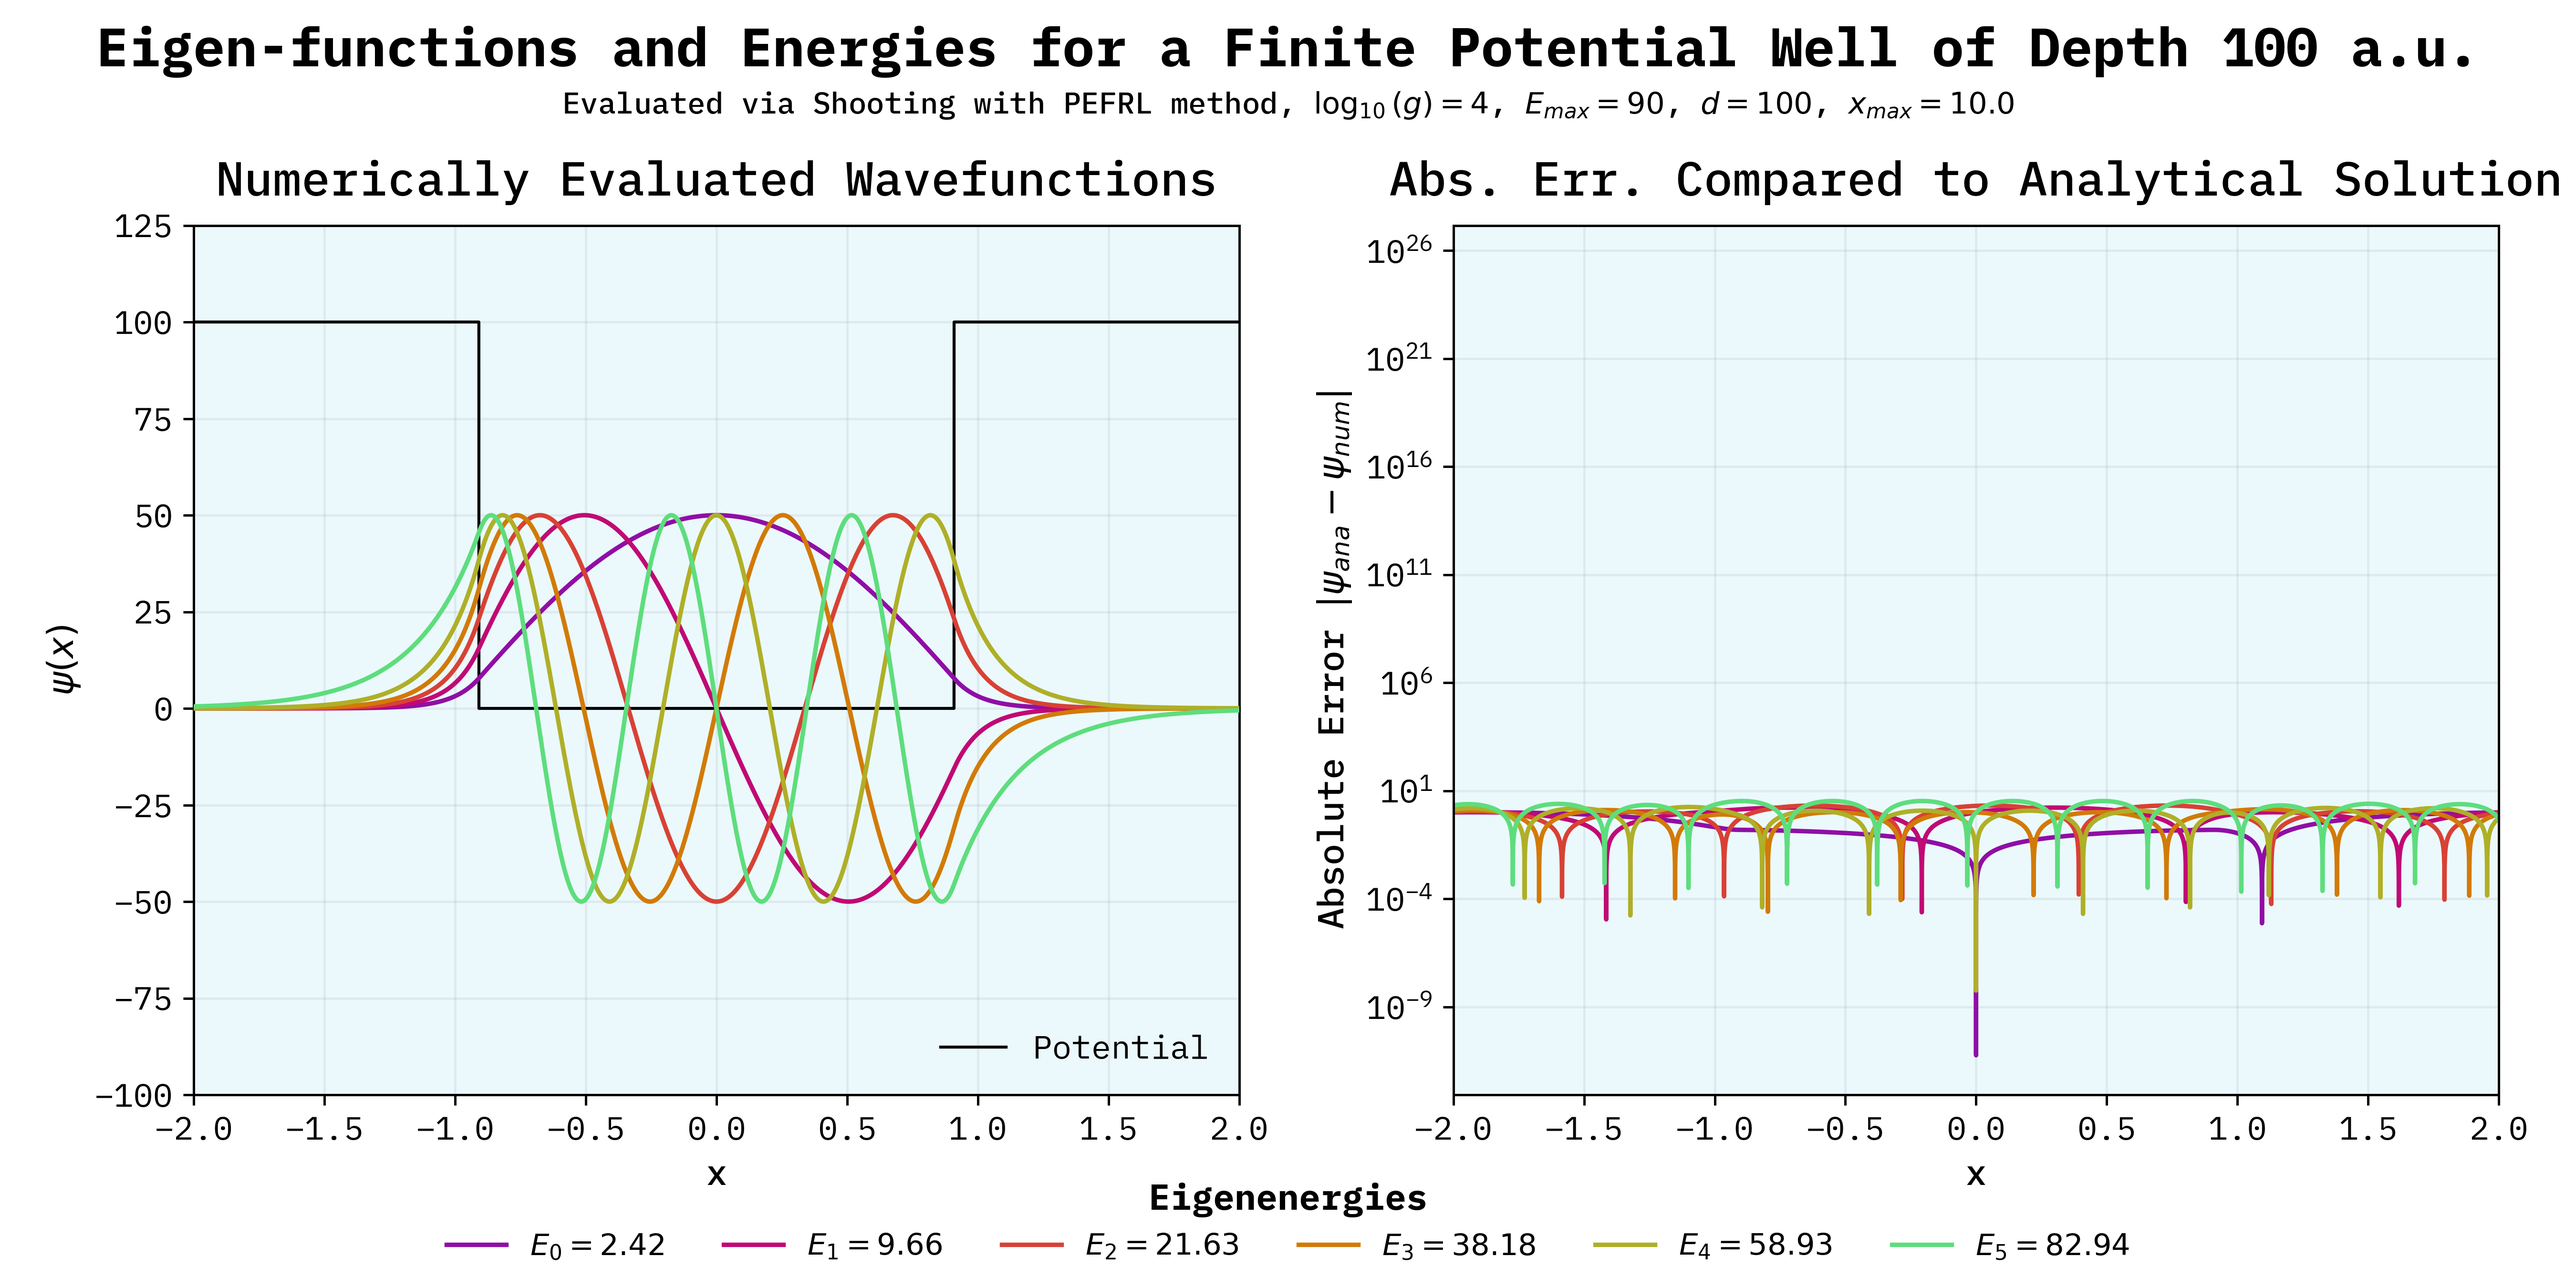
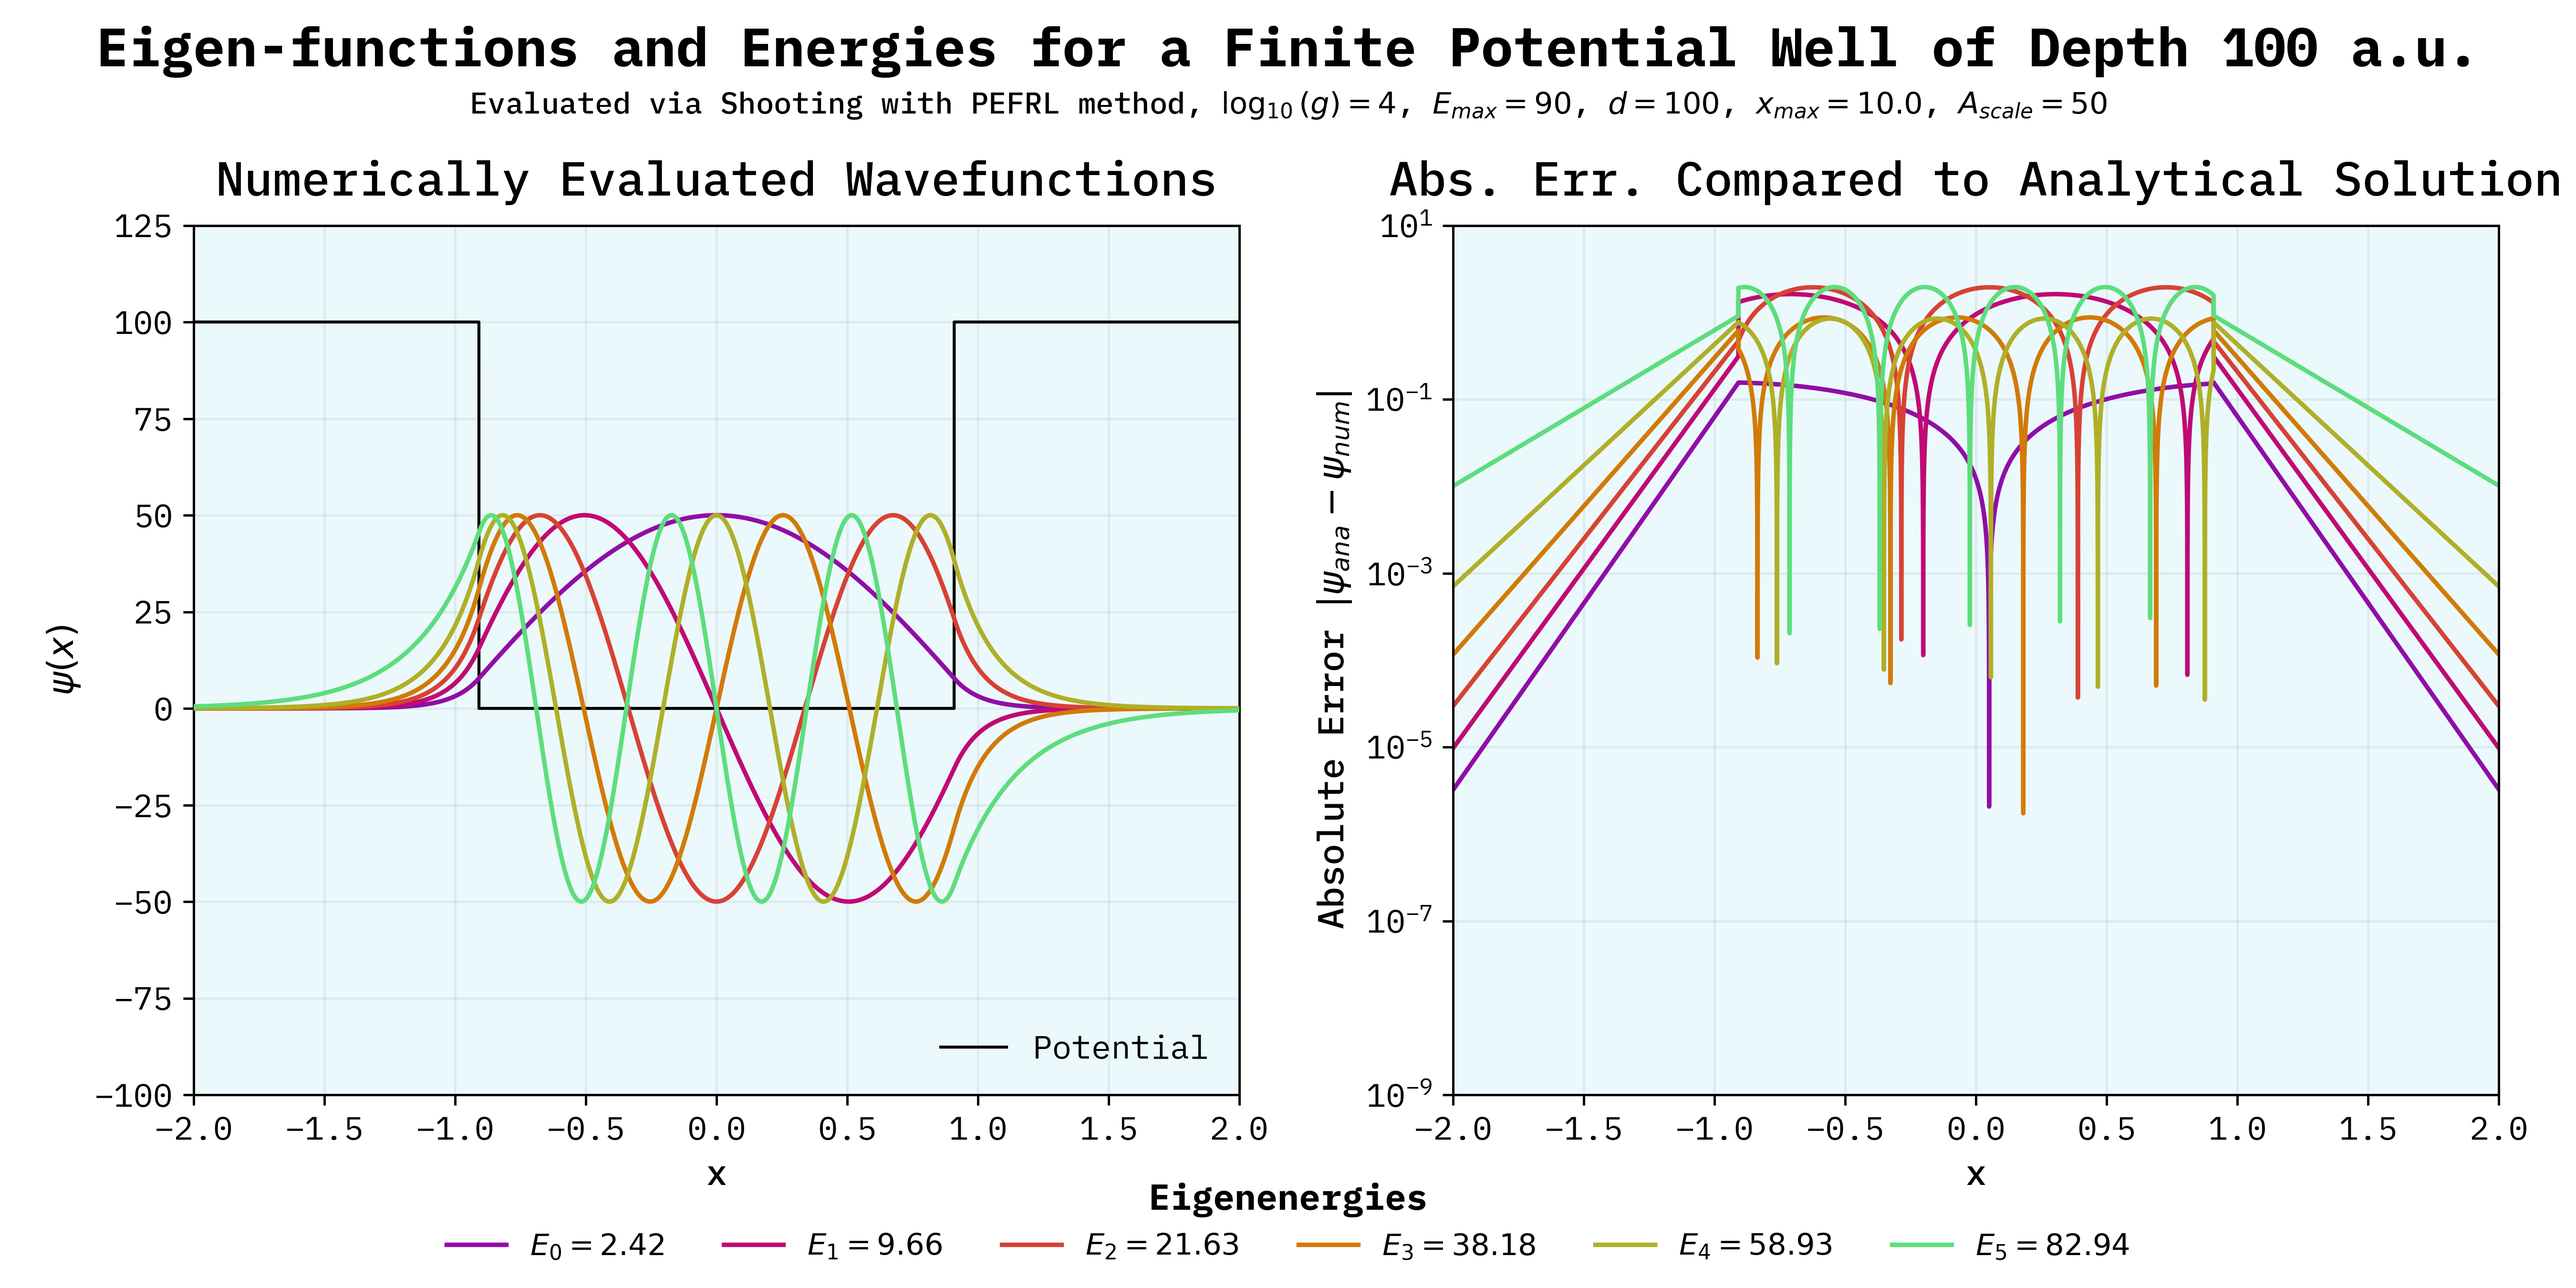
feat: :construction: push WIP code

diff --git a/Code/h-val-plot.py b/Code/h-val-plot.py
@@ -1,0 +1,45 @@
+"""
+Plot computed eigenvalues for Hydrogen scan over l values.
+"""
+import numpy as np
+from src import *
+import matplotlib.pyplot as plt
+import matplotlib as mpl
+import cmasher as cmr
+import os
+from time import time
+
+mpl.style.use("./vrm.mplstyle")
+mpl.use("qtagg")
+
+l_min = 0
+l_max = 10
+r_max = 20
+granularity = 100000
+
+fn = f"./Data/hydrogen_eigenvalues_l{l_min}_to_{l_max}_r{r_max}_g{int(np.log10(granularity))}.npz"
+
+data = np.load(fn, allow_pickle=True)
+l_vals = data["l_vals"]
+eigenvalues = [data[f"k_{l_val}"] for l_val in l_vals]
+
+# Now stack l values into (l, max_eigenvalues) array for plotting
+max_eigenvalues = max(len(evs) for evs in eigenvalues)
+eigenvalues_array = np.full((len(l_vals), max_eigenvalues), np.nan)  # Fill with NaN for missing values
+for i, evs in enumerate(eigenvalues):
+    eigenvalues_array[i, :len(evs)] = evs
+
+fig, ax = plt.subplots(figsize=(8, 6))
+colors = cmr.get_sub_cmap("cmr.chroma", 0.0, 0.75)
+norm = mpl.colors.Normalize(vmin=np.nanmin(eigenvalues_array), vmax=np.nanmax(eigenvalues_array))
+
+img = ax.imshow(eigenvalues_array.T, aspect='auto', cmap=colors, norm=norm, origin='lower',
+                extent=[l_vals[0], l_vals[-1], 1, max_eigenvalues])
+ax.set_xlabel("Angular Momentum Quantum Number $l$")
+ax.set_ylabel("Eigenvalue Index")
+ax.set_title("Eigenvalues for Hydrogen Atom as a Function of $l$")
+cbar = fig.colorbar(img, ax=ax)
+cbar.set_label("Eigenvalue")
+plt.tight_layout()
+plt.savefig(f"./Images/hydrogen_eigenvalues_l{l_min}_to_{l_max}_r{r_max}_g{int(np.log10(granularity))}.png", dpi=450)
+plt.show()

diff --git a/Code/src_shoot.py b/Code/src_shoot.py
@@ -197,7 +197,7 @@ def finpotwell(psi_init, upper, depth, h_):
     V_fpw = np.zeros(dim)
     V_fpw[:pos] = depth
     V_fpw[(pos + width):] = depth
-    E_arr = np.arange(1, upper, 1)  # Set initial guesses for eigen energies
+    E_arr = np.arange(1, upper, 5)  # Set initial guesses for eigen energies
     eigE = optimize_energy_fin(schrodinger2, psi_init, x_arr_fpw, V_fpw, E_arr)
     fpw_output = []
     for energy in eigE:
@@ -207,13 +207,19 @@ def finpotwell(psi_init, upper, depth, h_):
 
     fpw_solve_analytical = []
     for energy in eigE:
+        ana = np.empty(dim)
         k = np.sqrt(energy)
         l = np.sqrt(depth - energy)
         A = 1
         B = (k/l)*A
         C = A*(np.cos(k*width/2) + (l/k)*np.sin(k*width/2))
         D = A*(np.cos(k*width/2) - (l/k)*np.sin(k*width/2))
-        fpw_solve_analytical.append(np.where(x_arr_fpw < -width/2, D*np.exp(l*x_arr_fpw), np.where(x_arr_fpw > width/2, C*np.exp(-l*x_arr_fpw), A*np.cos(k*x_arr_fpw) + B*np.sin(k*x_arr_fpw))))
+        ana[:pos] = D*np.exp(l*x_arr_fpw[:pos])
+        ana[(pos + width):] = C*np.exp(-l*x_arr_fpw[(pos + width):])
+        ana[pos:(pos + width)] = A*np.cos(k*x_arr_fpw[pos:(pos + width)]) + B*np.sin(k*x_arr_fpw[pos:(pos + width)])
+        fpw_solve_analytical.append(normalize(ana, pos, width))
+        
+        # fpw_solve_analytical.append(np.where(x_arr_fpw < -1, D*np.exp(l*x_arr_fpw), np.where(x_arr_fpw > 1, C*np.exp(-l*x_arr_fpw), A*np.cos(k*x_arr_fpw) + B*np.sin(k*x_arr_fpw))))
 
     return x_arr_fpw, np.array(fpw_output), np.array(fpw_solve_analytical), eigE, V_fpw
 

diff --git a/Code/fpw-plot.py b/Code/fpw-plot.py
@@ -18,8 +18,8 @@ CACHE = True
 psi_0 = 0.0
 psi_prime_0 = 1.0
 psi_init = np.array([psi_0, psi_prime_0])
-depth = 5
-scale = 1
+depth = 100
+scale = 50
 step_size = 1/20000
 upper = 90 
 x_max = 10.0
@@ -52,7 +52,7 @@ ax[0].set_xlabel('x')
 ax[0].set_ylabel('$\psi(x)$')
 ax[0].set_title("Numerically Evaluated Wavefunctions")
 ax[0].set_xlim(-2, 2)
-# ax[0].set_ylim(-100, 125)
+ax[0].set_ylim(-100, 125)
 ax[0].legend(frameon=False, loc="lower right")
 
 for i, (psi, ana) in enumerate(zip(fpw_psi, fpw_ana)):
@@ -62,7 +62,7 @@ ax[1].set_ylabel('Absolute Error $| \psi_{ana} - \psi_{num} |$')
 ax[1].set_yscale('log')
 ax[1].set_title("Abs. Err. Compared to Analytical Solution")
 ax[1].set_xlim(-2, 2)
-# ax[1].set_ylim(1e-9, 1e1)
+ax[1].set_ylim(1e-9, 1e1)
 
 handles, labels = ax[1].get_legend_handles_labels()
 fig.legend(handles, labels, loc="lower center", ncol=7, frameon=False, prop={"size": 10, "weight": "medium"}, 
